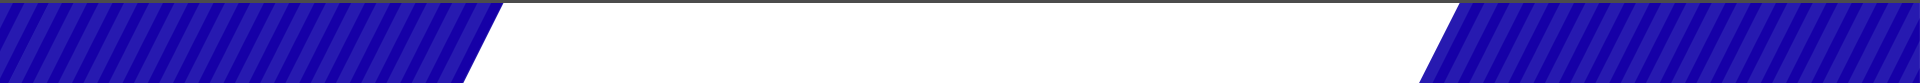
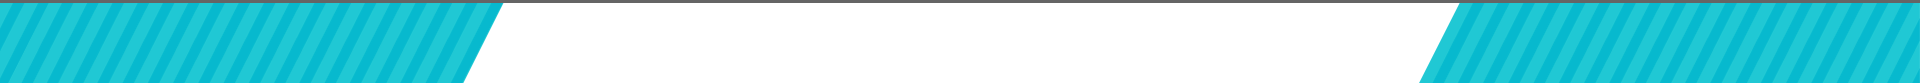
Button anim and color change

diff --git a/Buntek/Buntek/Scene_MainMenu.cpp b/Buntek/Buntek/Scene_MainMenu.cpp
@@ -25,6 +25,7 @@ void Scene_MainMenu::Start(void)
 {
 	Scene_MainMenu::instance = this;
 	AEGfxSetBackgroundColor(0.0f, 0.0f, 0.0f);
+	GameManager.disableInteraction = true;
 
 	AudioManager.LoadSound("ButtonHover.mp3");
 	AudioManager.LoadMusic("www.ogg");
@@ -67,7 +68,7 @@ void Scene_MainMenu::Start(void)
 	tempTextRenderer->SetText("Start");
 	tempTextRenderer->SetXAlignment(TextRenderer::xAlignmentTypes::Mid);
 	tempTextRenderer->SetYAlignment(TextRenderer::yAlignmentTypes::Mid);
-	startBtn->transform->SetPosition(Vector2(-670, -200));
+	startBtn->transform->SetPosition(Vector2(-670, 1000));
 	Button* button;
 	button = startBtn->AddComponent<Button>();
 	button->sr = tempRenderer;
@@ -87,7 +88,7 @@ void Scene_MainMenu::Start(void)
 	tempTextRenderer->SetText("Options");
 	tempTextRenderer->SetXAlignment(TextRenderer::xAlignmentTypes::Mid);
 	tempTextRenderer->SetYAlignment(TextRenderer::yAlignmentTypes::Mid);
-	optionBtn->transform->SetPosition(Vector2(-670, -300));
+	optionBtn->transform->SetPosition(Vector2(-670, 1000));
 	button = optionBtn->AddComponent<Button>();
 	button->sr = tempRenderer;
 	button->tr = tempTextRenderer;
@@ -106,7 +107,7 @@ void Scene_MainMenu::Start(void)
 	tempTextRenderer->SetText("Quit");
 	tempTextRenderer->SetXAlignment(TextRenderer::xAlignmentTypes::Mid);
 	tempTextRenderer->SetYAlignment(TextRenderer::yAlignmentTypes::Mid);
-	quitBtn->transform->SetPosition(Vector2(-670, -400));
+	quitBtn->transform->SetPosition(Vector2(-670, 1000));
 	button = quitBtn->AddComponent<Button>();
 	button->sr = tempRenderer;
 	button->tr = tempTextRenderer;
@@ -139,10 +140,13 @@ void Scene_MainMenu::Update(void)
 
 	if (animTimer < 1)
 	{
-		GameManager.disableInteraction = true;
 		fake->Translate(Vector2(DeltaTime * -450.0f, -400.0f * DeltaTime));
 		fake->Rotate(DeltaTime * 180.1f);
 		fake->SetScale(Vector2(fake->worldscale.x -= DeltaTime, fake->worldscale.y -= DeltaTime));
+
+		startBtn->transform->Translate(Vector2(0.0f, DeltaTime * -1200));
+		optionBtn->transform->Translate(Vector2(0.0f, DeltaTime * -1300));
+		quitBtn->transform->Translate(Vector2(0.0f, DeltaTime * -1400));
 
 		if (animTimer <= 0.8f)
 		{
@@ -154,7 +158,6 @@ void Scene_MainMenu::Update(void)
 			disc->Scale(DeltaTime * -10);
 			bottom->worldscale -= Vector2(0.0f, DeltaTime * 5.0f);
 		}
-			
 	}
 	else if (!finishedSetup)
 	{
@@ -165,6 +168,10 @@ void Scene_MainMenu::Update(void)
 		AssetManager.UnloadTexture("Menu/Fake.png");
 		disc->SetScale(Vector2(1, 1));
 		bottom->SetScale(Vector2(1, 1));
+
+		startBtn->transform->SetPosition(Vector2(-670, -200));
+		optionBtn->transform->SetPosition(Vector2(-670, -300));
+		quitBtn->transform->SetPosition(Vector2(-670, -400));
 
 		displayTxt = bottom->Owner()->AddComponent<TextRenderer>();
 		displayTxt->SetFont("GothicA1.ttf");
@@ -308,7 +315,7 @@ void BtnFuncUnHover_Quit(Button* button)
 		button->Owner()->GetComponent<SpriteRenderer>()->SetTexture("Menu/Button.png");
 		menu->quitPlay = true;
 	}
-
+	
 	Vector2 temp = menu->quitBtnPos;
 	temp.x = menu->GetObjRef(2)->transform->worldposition.x <= -670 ? -670 : menu->GetObjRef(2)->transform->worldposition.x - DeltaTime * 150;
 	menu->GetObjRef(2)->transform->SetPosition(temp);
